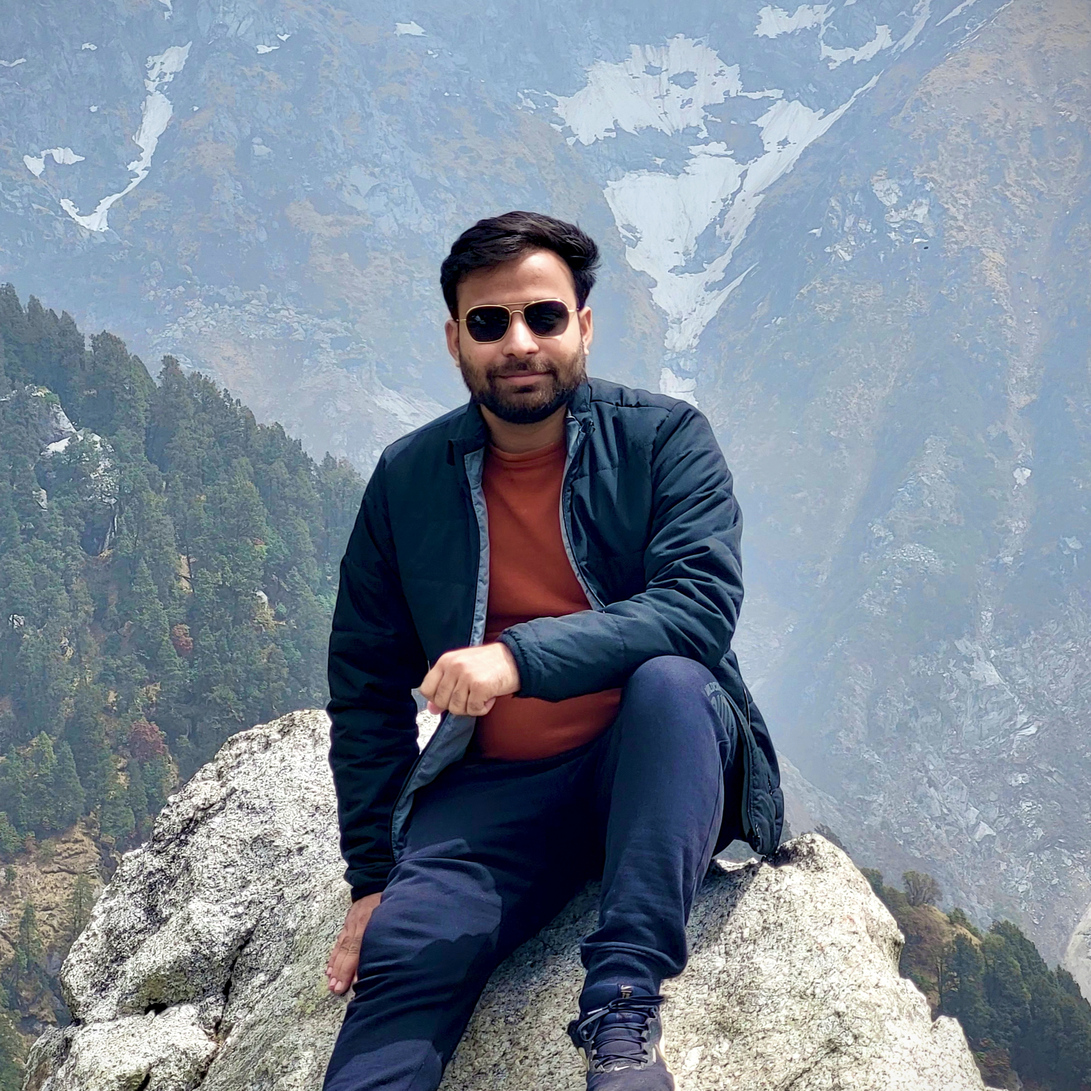
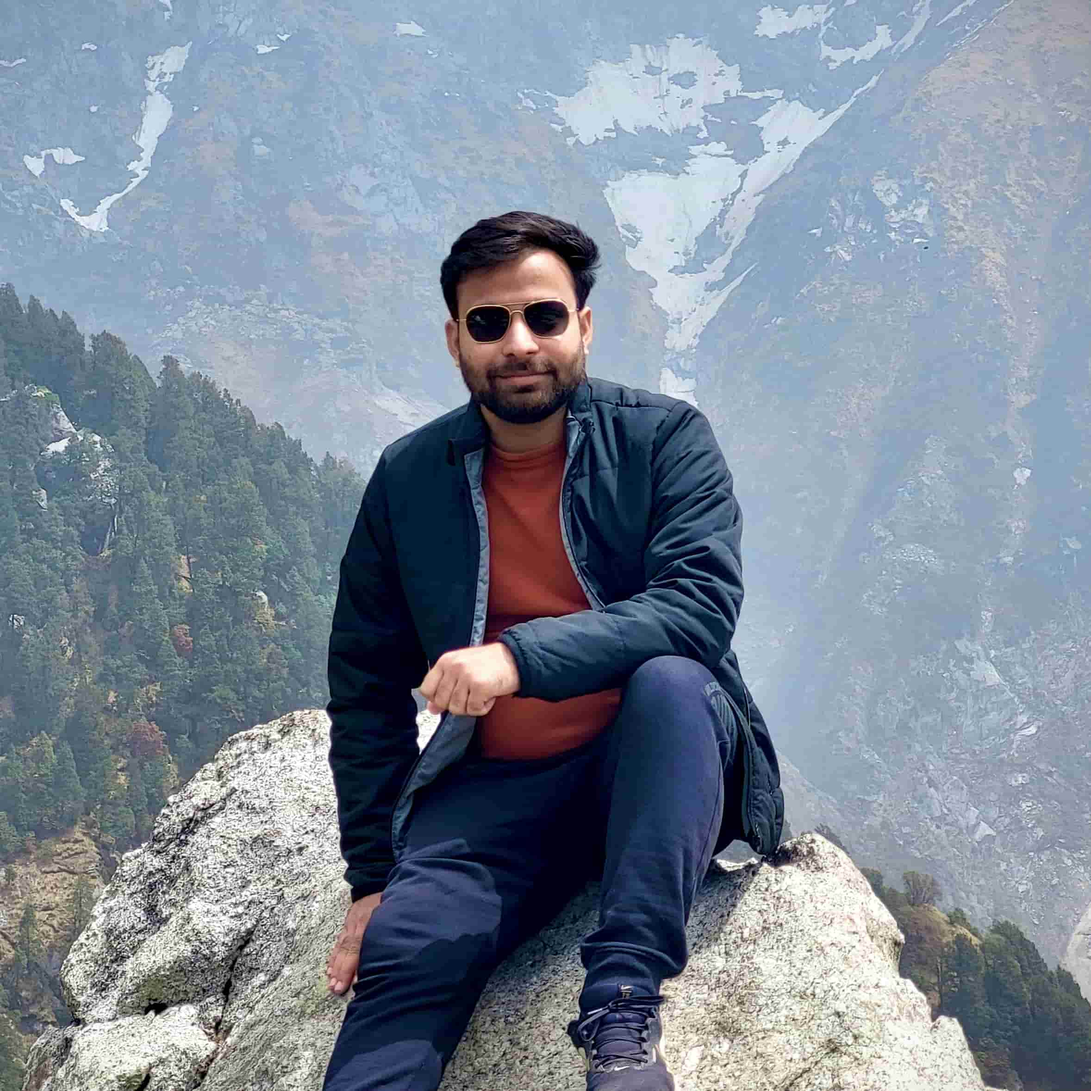
Optimized image and rearranged App.css

Changed region(s): [[0.031, 0.6814, 0.3097, 1.0], [0.2478, 0.6504, 0.2787, 0.6814], [0.2168, 0.9911, 0.2478, 1.0]]

diff --git a/src/App.css b/src/App.css
@@ -67,42 +67,6 @@
   background: none;
 }
 
-@media (max-width: 600px) {
-  .main-content {
-    flex-direction: column;
-    align-items: center;
-    padding: 1rem;
-  }
-
-  .profile-left {
-    align-self: center;
-    margin-bottom: 1rem;
-  }
-
-  .profile-img-animated-border {
-    /* margin: 1.5rem auto; */
-    width: 140px;
-    height: 140px;
-  }
-
-  .profile-img-inner {
-    width: 120px;
-    height: 120px;
-  }
-
-  .profile-img-inner img {
-    width: 120px;
-    height: 120px;
-  }
-
-  /* Adjust text margin and font size */
-  .main-content>div[style] {
-    margin: 1rem !important;
-    font-size: 1rem;
-    text-align: center;
-  }
-}
-
 .main-content {
   display: flex;
   align-items: flex-start;
@@ -178,12 +142,6 @@
   width: fit-content;
 }
 
-@media (max-width: 600px) {
-  .nav-bar {
-    padding: 0.5rem .8rem;
-  }
-}
-
 .nav-list {
   display: flex;
   gap: 2rem;
@@ -192,14 +150,54 @@
   padding: 0;
 }
 
-@media (prefers-reduced-motion: no-preference) {
+/* @media (prefers-reduced-motion: no-preference) {
   a:nth-of-type(2) .logo {
     animation: logo-spin infinite 20s linear;
   }
-}
+} */
 
 */ .read-the-docs {
   color: #888;
+}
+
+@media (max-width: 600px) {
+  .main-content {
+    flex-direction: column;
+    align-items: center;
+    padding: 1rem;
+  }
+
+  .profile-left {
+    align-self: center;
+    margin-bottom: 1rem;
+  }
+
+  .profile-img-animated-border {
+    /* margin: 1.5rem auto; */
+    width: 140px;
+    height: 140px;
+  }
+
+  .profile-img-inner {
+    width: 120px;
+    height: 120px;
+  }
+
+  .profile-img-inner img {
+    width: 120px;
+    height: 120px;
+  }
+
+  /* Adjust text margin and font size */
+  .main-content>div[style] {
+    margin: 1rem !important;
+    font-size: 1rem;
+    text-align: center;
+  }
+
+  .nav-bar {
+    padding: 0.5rem .8rem;
+  }
 }
 
 @keyframes futuristic-spin {
